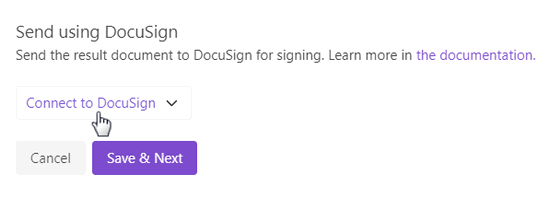
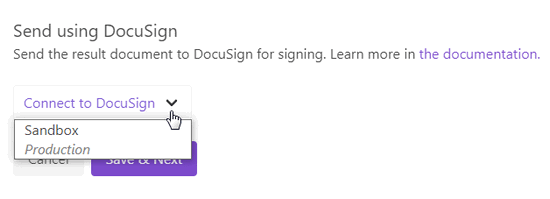
Improved deliveries description

Changed region(s): [[0.0, 0.4523, 0.3709, 0.9045], [0.0, 0.2412, 0.9891, 0.3317], [0.0, 0.1206, 0.34, 0.2111]]

diff --git a/source/user-guide/processes/deliveries/docusign.rst b/source/user-guide/processes/deliveries/docusign.rst
@@ -8,7 +8,9 @@ First of all, you need to connect to your DocuSign account from the Plumsail acc
 .. image:: ../../../_static/img/user-guide/processes/connect-docusign.png
     :alt: connect to DocuSign
 
-Then customize the DocuSign delivery settings. 
+At this step, you can select an environment - either **Sandbox** or **Production**. Sandbox environment allows you to test sending documents for signature without being charged, but documents won't be valid. Make sure you have a DocuSign demo account (it's also called a developer account) to be able to connect to DocuSign Sandbox. Otherwise, select Production.
+
+After you connected, you can customize the DocuSign delivery settings. 
 
 **Fill in email subject and body**:
 
@@ -20,12 +22,18 @@ Then customize the DocuSign delivery settings.
 .. image:: ../../../_static/img/user-guide/processes/docusign-recipients.png
     :alt: roles of recipients in DocuSign delivery
 
+Advanced settings
+-----------------
+
 Expand **Advanced** to customize more settings:
 
 .. image:: ../../../_static/img/user-guide/processes/advanced-docusign-settings.png
     :alt: advanced DocuSign delivery settings
 
-Here you can switch on Sequential signing, then just drag and drop recipients to define an order what they should sign the document in.
+Here you can switch on **Sequential signing**, then just drag and drop recipients to define an order in which they should sign the document.
+
+.. image:: ../../../_static/img/user-guide/processes/drag-drop-recipients.gif
+    :alt: drag and drop recipients to change the sequence of signing
 
 And you can set the expiration period and sending reminders. 
 

diff --git a/source/user-guide/processes/deliveries/eversign.rst b/source/user-guide/processes/deliveries/eversign.rst
@@ -35,10 +35,22 @@ Clicking on the lock, you can **set a signer PIN**. Signer PINs provide you with
 .. image:: ../../../_static/img/user-guide/processes/signer-pin.png
     :alt: apply signer PINs
 
+Advanced settings
+-----------------
+
 Expand **Advanced** to customize more settings.
 
 .. image:: ../../../_static/img/user-guide/processes/advanced-eversign-settings.png
     :alt: advanced eversign settings
+
+- Here you can switch on **Sequential signing**, then just drag and drop recipients to define an order in which they should sign the document:
+
+.. image:: ../../../_static/img/user-guide/processes/drag-drop-recipients.gif
+    :alt: drag and drop recipients to change the sequence of signing
+
+- Enable **Require all signers to sign** to complete the document. If this option is on, all signers must sign the document in order to complete it. If at least one of them declines to sign, this document will be canceled.
+
+- One more significant option here is to enable **Sandbox eversign mode**. With Sandbox on, you won't be charged, and signed documents won't be valid. They will have a tag :code:`[test-only-not-binding]`. Use this mode for testing purposes.
 
 Use tokens inside email subject and body
 ----------------------------------------
